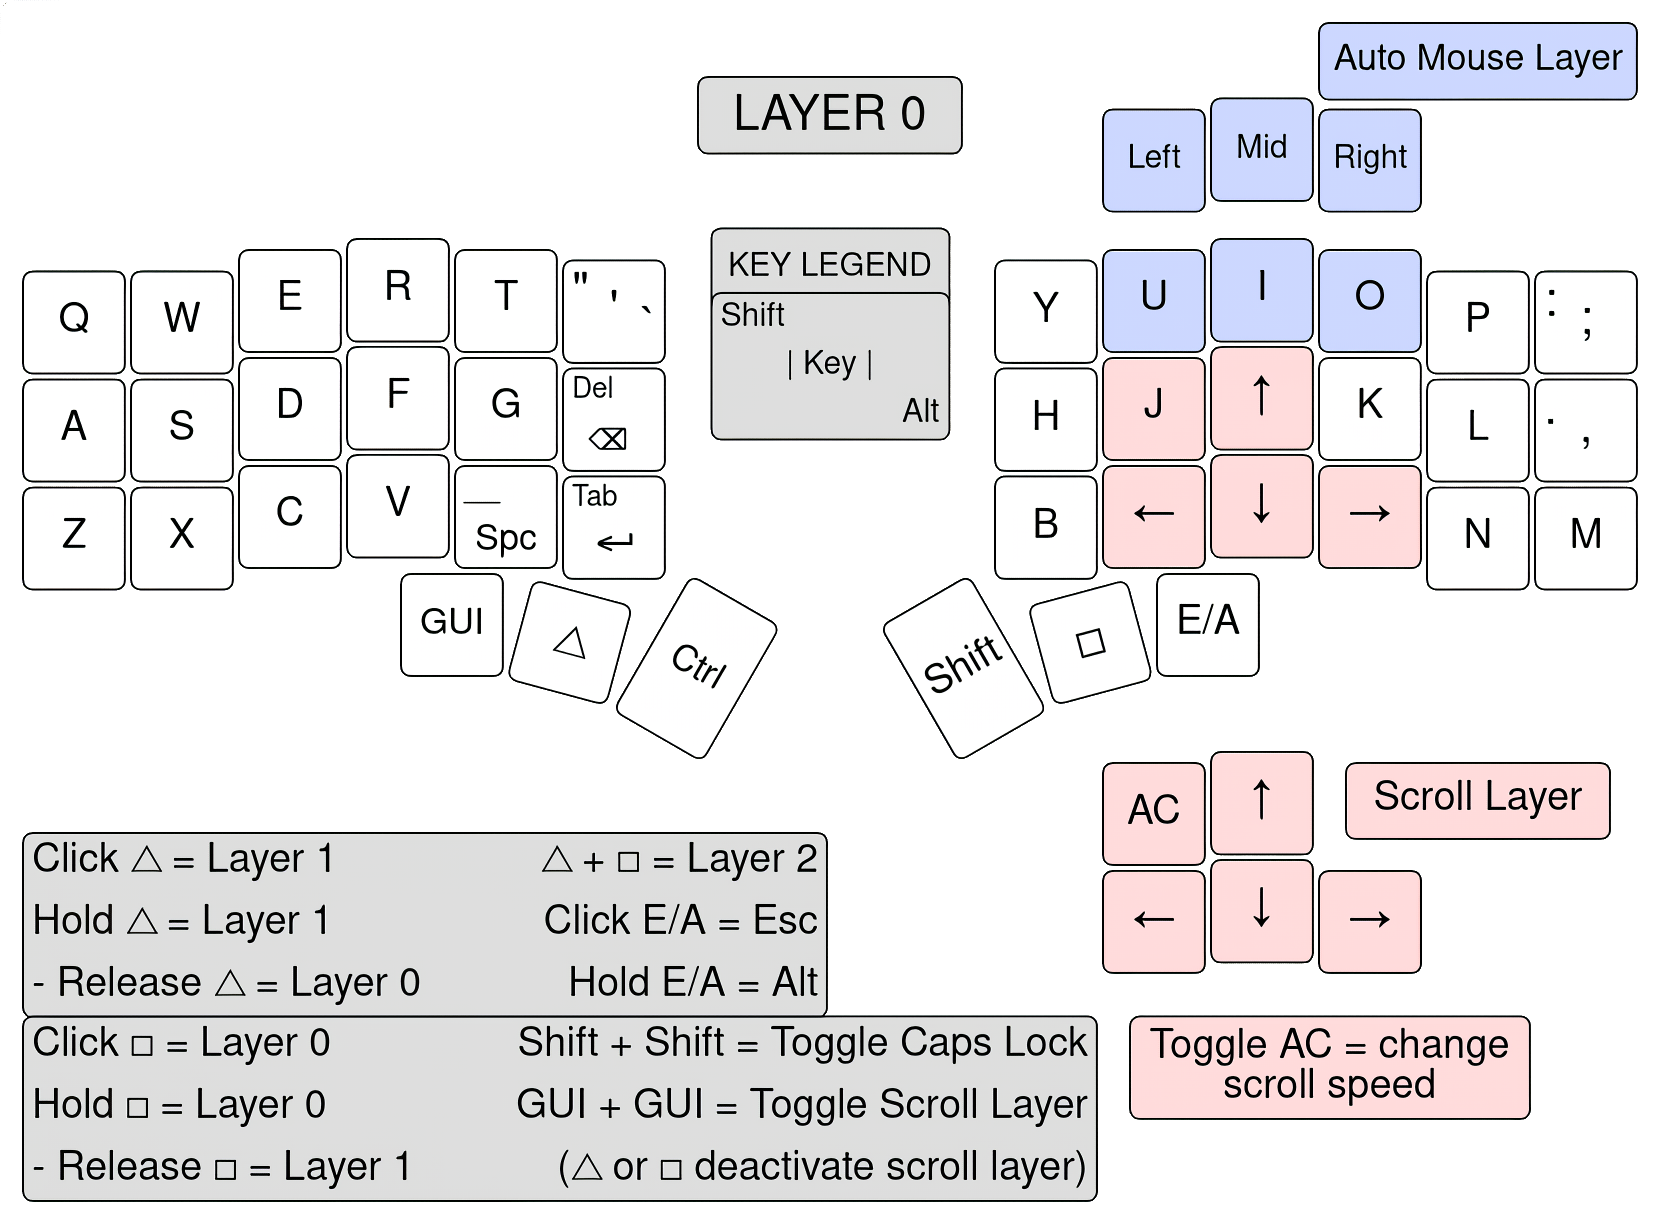
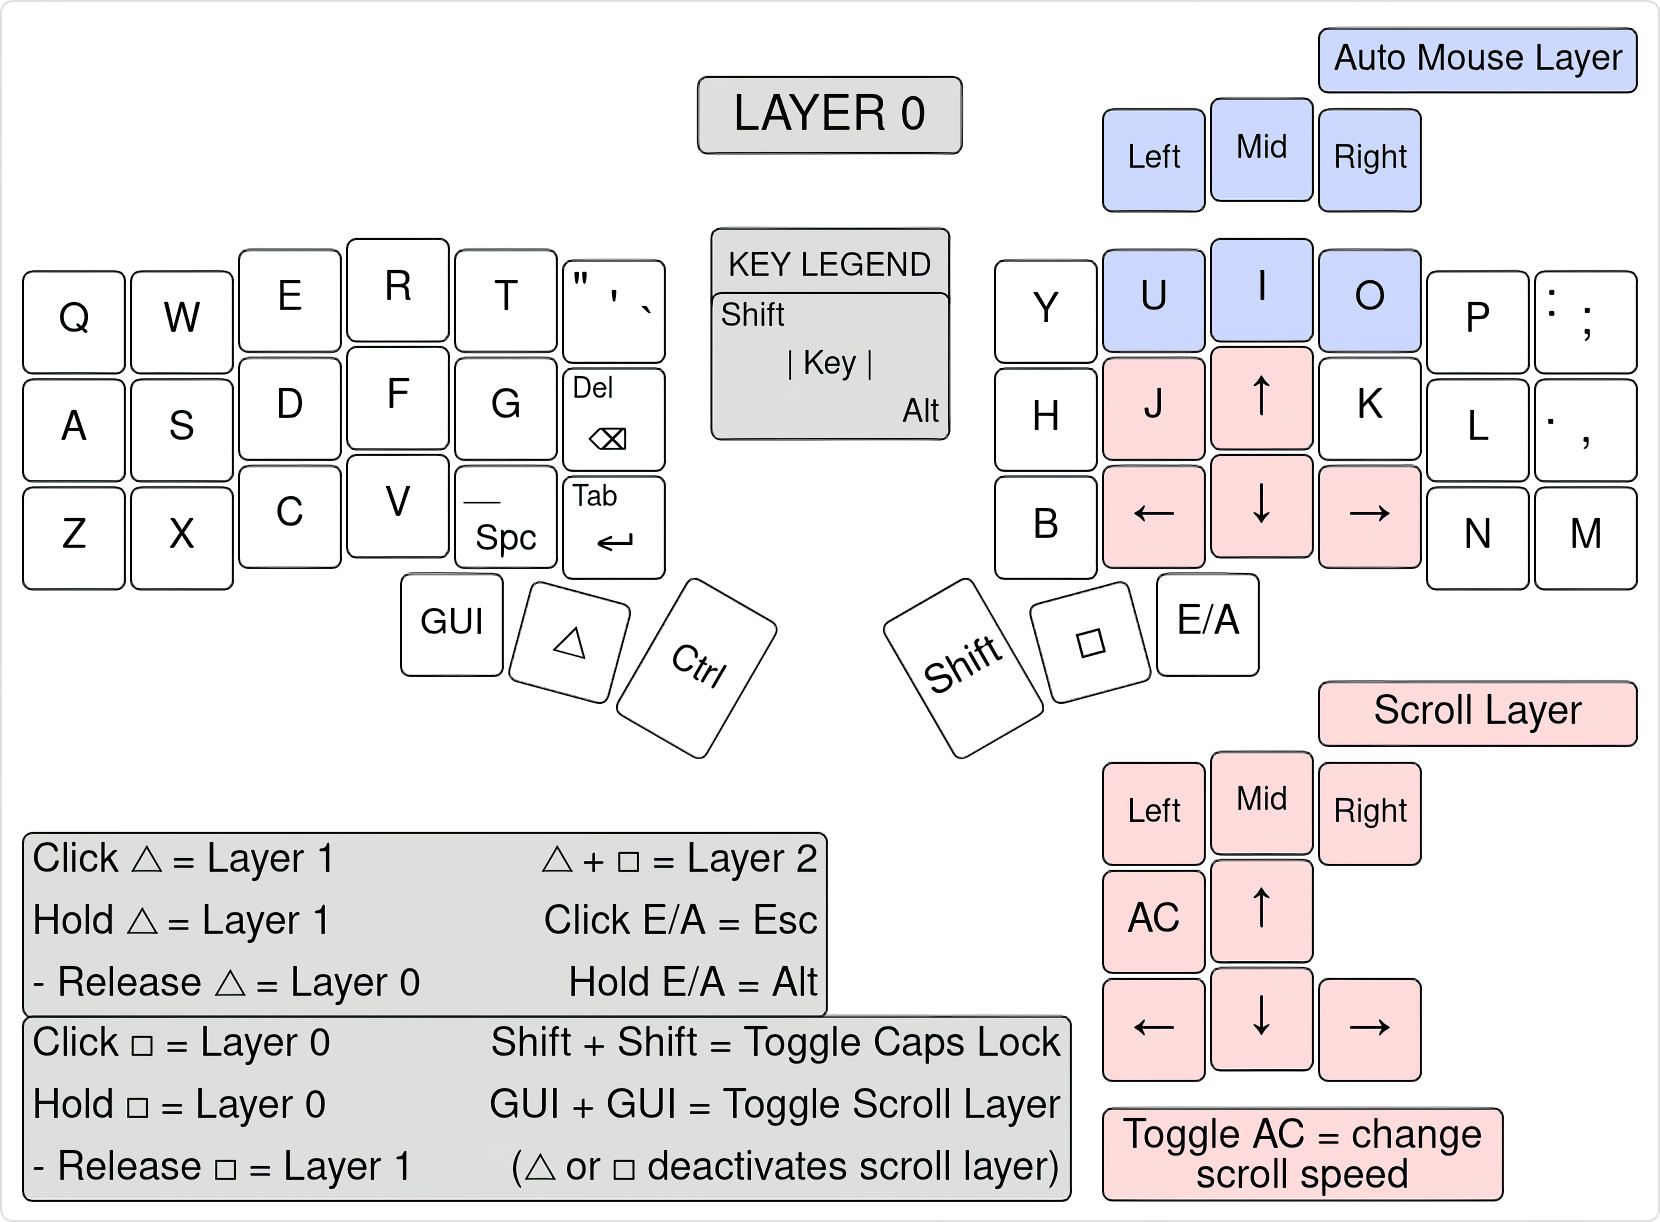
updated user files

diff --git a/Elil_50/keymap.c b/Elil_50/keymap.c
@@ -626,13 +626,15 @@ bool process_record_user(uint16_t keycode, keyrecord_t *record) {
         case RIGHT_TOGGLE:
         
             if (record->event.pressed) {
-                for(uint16_t i=1; i<=MY_MAX_LAYER; i++){
-                    layer_off(i);
-                }
+               layer_state = 1; // 100... in binary
+                //for(uint16_t i=1; i<=MY_MAX_LAYER; i++){
+                //    layer_off(i);
+                //}
             }
             else {
                 if (!record->tap.count) {
-                    layer_on(1);
+                    layer_state = 3; // 110... in binary
+                    //layer_on(1);
                 }
             }
             return false;
@@ -643,14 +645,16 @@ bool process_record_user(uint16_t keycode, keyrecord_t *record) {
         case LEFT_TOGGLE:
             
             if (record->event.pressed) {
-                layer_on(1);
-                for(uint16_t i=2; i<=MY_MAX_LAYER; i++){
-                    layer_off(i);
-                }
+                layer_state = 3; // 110... in binary
+                //layer_on(1);
+                //for(uint16_t i=2; i<=MY_MAX_LAYER; i++){
+                //    layer_off(i);
+                //}
             }
             else {
                 if (!record->tap.count) {
-                    layer_off(1);
+                    layer_state = 1; // 100... in binary
+                    //layer_off(1);
                 }
             }
             return false;
@@ -835,7 +839,7 @@ const uint16_t PROGMEM keymaps[][MATRIX_ROWS][MATRIX_COLS] = {
 
   [MY_MAX_LAYER] = LAYOUT_split_3x6_3( // scroll transparent layer
     //,-----------------------------------------------------.                    ,-----------------------------------------------------.
-       KC_TRNS, KC_TRNS, KC_TRNS, KC_TRNS, KC_TRNS, KC_TRNS,                      KC_TRNS, KC_TRNS, KC_TRNS, KC_TRNS, KC_TRNS, KC_TRNS,
+       KC_TRNS, KC_TRNS, KC_TRNS, KC_TRNS, KC_TRNS, KC_TRNS,                      KC_TRNS, MS_BTN1, MS_BTN3, MS_BTN2, KC_TRNS, KC_TRNS,
     //|--------+--------+--------+--------+--------+--------|                    |--------+--------+--------+--------+--------+--------|
        KC_TRNS, KC_TRNS, KC_TRNS, KC_TRNS, KC_TRNS, KC_TRNS,                      KC_TRNS,  ACCEL, MS_WHLU,  KC_TRNS, KC_TRNS, KC_TRNS,
     //|--------+--------+--------+--------+--------+--------|                    |--------+--------+--------+--------+--------+--------|

diff --git a/Elil_50/config.h b/Elil_50/config.h
@@ -16,6 +16,8 @@ SPDX-License-Identifier: GPL-2.0-or-later
 #define TAPPING_TOGGLE 1
 #define MK_W_OFFSET_1 2
 #define MK_W_OFFSET_0 15
+#define PS2_MOUSE_X_MULTIPLIER 2
+#define PS2_MOUSE_Y_MULTIPLIER 2
 
 #if MY_TRACKPOINT_ENABLE
     #define PS2_PIO_USE_PIO1

diff --git a/README.md b/README.md
@@ -85,7 +85,7 @@ The layer switching key △ or ▢ deactivates it.
 
 * ### Scroll Layer
 
-If you double click the key ```GUI``` you activate the scroll layer, which replaces arrows with scroll movements and adds the key ```AC``` which can be found by default in layer 1. <br/>
+If you double click the key ```GUI``` you activate the scroll layer, which replaces arrows with scroll movements, adds the key ```AC``` - which can be found by default in layer 1 - and mouse keys - the same of the automatic mouse layer. <br/>
 If you double click the key ```GUI``` again or single click the layer switching key △ or ▢, the layer is deactivated. 
 
 If you toggle the key ```AC``` you change the scroll speed between fast and slow. You can change them by changing the numbers of the two ```MK_W_OFFSET``` in ```./Elil_50/config.h```.
@@ -251,6 +251,9 @@ More informations about the trackpoint can be found in the official datasheet; y
 <img src="./Images/Trackpoint_pinout.jpg" width="400">
 
 * ### Trackpoint stem
+
+> [!CAUTION]
+> My 3D printed trackpoint just broke. I suggest to use metal. I'm going to buy a cheek piercer and try gluing it.
 
 In order to raise the trackpoint keycap above the PCB, I 3D printed the following sketch. Then, I proceeded to cut the excess height and manually reduce the diameter of the section which goes through the PCB. It's probably better to print with 3mm instead of 4mm. I increased the diameter of the PCB hole with a drill. Finally I glued the stem on the trackpoint sensor: it was too shaky otherwise.
 
